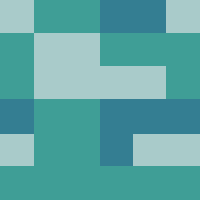
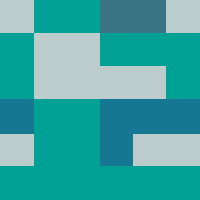
Fvwm-mTabs ver. 0.9.1

diff --git a/README.md b/README.md
@@ -18,10 +18,8 @@ Fvwm-mTabs is a simplified version of KISe and myExt that uses FvwmTabs. It is a
 * XDG menu.
 * Day/Time Panel.
 * 4-button Window Title Bar.
-* Auto Move Windows.
+* Auto Move Windows and FvwmTabs.
 * Page Indicator.
-* Tiled and scalable wallpaper features.
-* Window focus on all desks and pages.
 
 Tested on Fvwm3 and Fvwm2
 
@@ -29,7 +27,7 @@ Tested on Fvwm3 and Fvwm2
 
 Download:
 
-* Version 0.9
+* Version 0.9.1
 * https://github.com/rasatpc/Fvwm-mTabs/archive/refs/heads/main.zip
 
 Extract and copy subfolders to ~/.fvwm

diff --git a/setup/INSTALL.md b/setup/INSTALL.md
@@ -1,4 +1,4 @@
-23 Feb 2026
+5 Mar 2026
 ################
 # HOW TO INSTALL Fvwm-mTab on FVWM3 (or Fvwm2)
 ################
